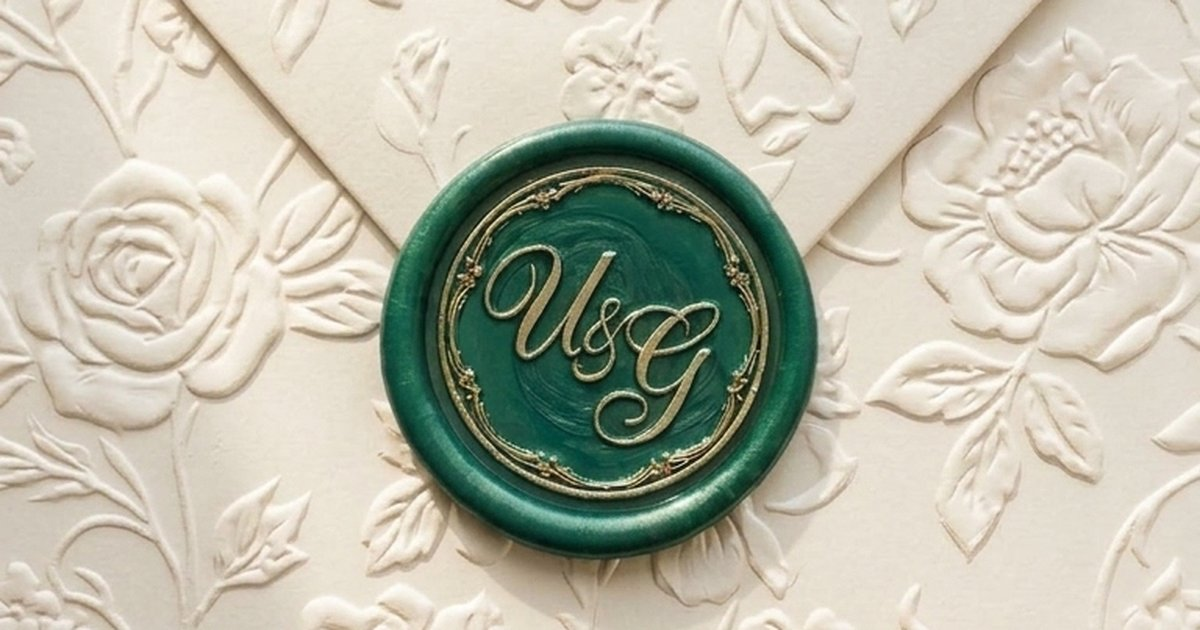
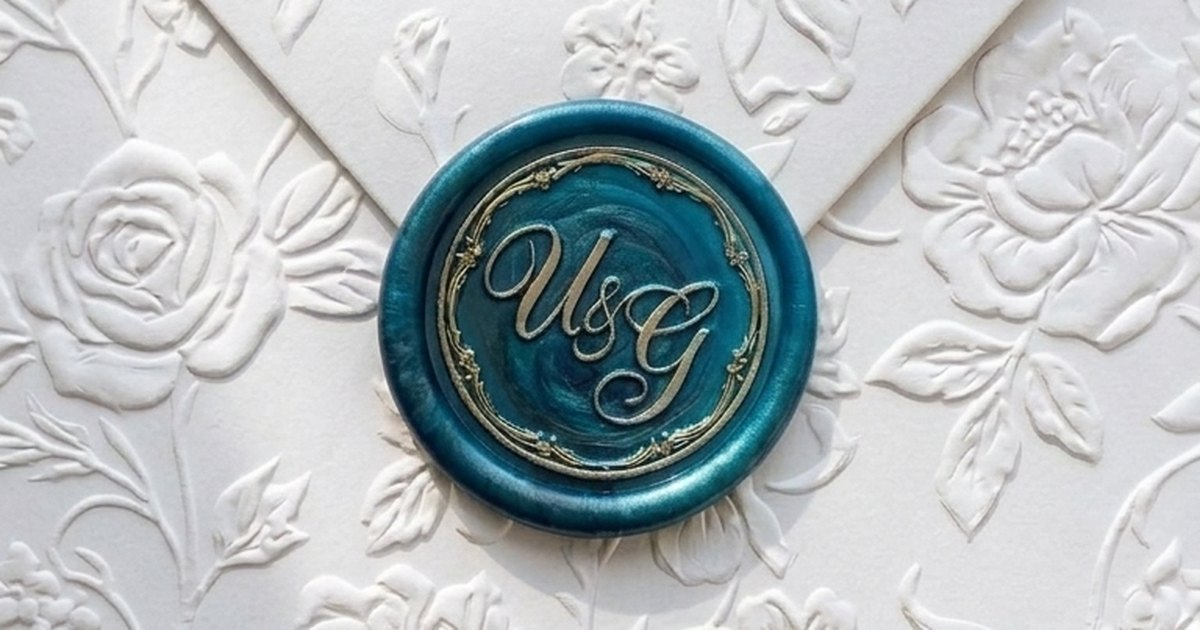
feat: lugar unico Finca Lindavista con mapa, itinerario actualizado, madrina del ramo, sobre y video con sello azul, og-image del sello

diff --git a/index.html b/index.html
@@ -10,14 +10,14 @@
 <meta property="og:url" content="https://boda-gabriela-y-ulises.vercel.app/">
 <meta property="og:title" content="Ulises &amp; Gabriela · XXVIII · XI · MMXXVI">
 <meta property="og:description" content="Nos casamos y queremos que estés ahí. Playa del Carmen, Quintana Roo — 28 de Noviembre de 2026">
-<meta property="og:image" content="https://boda-gabriela-y-ulises.vercel.app/og-image.jpg">
+<meta property="og:image" content="https://boda-gabriela-y-ulises.vercel.app/og-image.jpg?v=3">
 <meta property="og:image:type" content="image/jpeg">
 <meta property="og:image:width" content="1200">
 <meta property="og:image:height" content="630">
 <meta property="og:image:alt" content="Invitación de boda Ulises y Gabriela — Playa del Carmen 2026">
 <meta property="og:locale" content="es_MX">
 <meta name="twitter:card" content="summary_large_image">
-<meta name="twitter:image" content="https://boda-gabriela-y-ulises.vercel.app/og-image.jpg">
+<meta name="twitter:image" content="https://boda-gabriela-y-ulises.vercel.app/og-image.jpg?v=3">
 <script>if('scrollRestoration' in history){history.scrollRestoration='manual';}window.scrollTo(0,0);document.documentElement.className+=('IntersectionObserver' in window)?' js':'';</script>
 <link rel="preload" href="luxurious-script.woff2" as="font" type="font/woff2" crossorigin>
 <link rel="preload" href="portada.jpg" as="image">
@@ -483,8 +483,8 @@ footer{background:linear-gradient(180deg,rgba(253,251,246,0) 0,rgba(244,220,198,
 <body>
 
 <div id="envelope-screen">
-  <img id="envImage" src="sobre.jpg" alt="Sobre de invitación Ulises y Gabriela">
-  <video id="envVideo" src="https://bsjoelxktbvlavfoozhk.supabase.co/storage/v1/object/public/fotos-clientes/video/boda-gabriela-y-ulises/sobre-apertura-v2.mp4" muted playsinline preload="auto" poster="sobre.jpg"></video>
+  <img id="envImage" src="sobre.jpg?v=3" alt="Sobre de invitación Ulises y Gabriela">
+  <video id="envVideo" src="https://bsjoelxktbvlavfoozhk.supabase.co/storage/v1/object/public/fotos-clientes/video/boda-gabriela-y-ulises/sobre-apertura-v3.mp4" muted playsinline preload="auto" poster="sobre.jpg?v=3"></video>
   <div class="env-tap" id="envTap">Toca para abrir</div>
 </div>
 <div id="dust" aria-hidden="true"></div>
@@ -574,37 +574,28 @@ footer{background:linear-gradient(180deg,rgba(253,251,246,0) 0,rgba(244,220,198,
             <div class="pad-slide"><div class="pad-ic"><svg viewBox="0 0 64 64"><path d="M44 24c-6.6 0-10 8-12 8s-5.4-8-12-8a8 8 0 000 16c6.6 0 10-8 12-8s5.4 8 12 8a8 8 0 000-16Z"/></svg></div><span class="caps">Padrinos de lazo</span><p class="pad-names">Gómez Valencia</p></div>
             <div class="pad-slide"><div class="pad-ic"><svg viewBox="0 0 64 64"><circle cx="25" cy="29" r="12"/><circle cx="39" cy="38" r="12"/><line x1="25" y1="25" x2="25" y2="33"/><line x1="21" y1="29" x2="29" y2="29"/></svg></div><span class="caps">Padrinos de arras</span><p class="pad-names">Ruiz Sánchez</p></div>
             <div class="pad-slide"><div class="pad-ic"><svg viewBox="0 0 64 64"><rect x="20" y="15" width="25" height="32" rx="2"/><line x1="32.5" y1="22" x2="32.5" y2="35"/><line x1="27" y1="27" x2="38" y2="27"/><line x1="20" y1="41" x2="45" y2="41"/></svg></div><span class="caps">Madrina de la Biblia</span><p class="pad-names">Sarai Gómez Puc</p></div>
+            <div class="pad-slide"><div class="pad-ic"><svg viewBox="0 0 64 64"><circle cx="32" cy="17" r="6"/><circle cx="22" cy="23" r="5.5"/><circle cx="42" cy="23" r="5.5"/><circle cx="27" cy="29" r="5"/><circle cx="37" cy="29" r="5"/><path d="M26 34l6 22 6-22"/><path d="M27 44c3 2 7 2 10 0"/></svg></div><span class="caps">Madrina del ramo</span><p class="pad-names">Yanin Junco</p></div>
           </div>
         </div>
-        <div class="pad-dots" id="padDots"><button class="active" aria-label="Padrinos 1"></button><button aria-label="Padrinos 2"></button><button aria-label="Padrinos 3"></button><button aria-label="Padrinos 4"></button></div>
+        <div class="pad-dots" id="padDots"><button class="active" aria-label="Padrinos 1"></button><button aria-label="Padrinos 2"></button><button aria-label="Padrinos 3"></button><button aria-label="Padrinos 4"></button><button aria-label="Padrinos 5"></button></div>
       </div>
     </div>
   </section>
 
   <!-- LUGARES -->
   <section class="sec sec--paper" id="lugares">
-    <span class="pill rv">Dónde y cuándo</span>
+    <span class="pill rv">Dónde</span>
     <h2 class="title rv d1">La celebración</h2>
     <div class="arches">
       <div class="arch rv"><div class="core">
-        <div class="arch-ic"><svg viewBox="0 0 64 64"><path d="M32 6v10M27 11h10"/><path d="M14 58V30L32 18l18 12v28"/><path d="M26 58V44a6 6 0 0112 0v14"/><path d="M8 58h48"/><circle cx="32" cy="31" r="3.5"/></svg></div>
-        <span class="caps">Ceremonia religiosa</span>
-        <span class="arch-time">6:00 p.m.</span>
-        <!-- PENDIENTE: lugar y link de Maps de la ceremonia religiosa -->
-        <span class="arch-place">Lugar por confirmar</span>
-        <span class="arch-addr">Playa del Carmen, Quintana Roo</span>
-      </div></div>
-      <div class="arch rv d1"><div class="core">
-        <div class="arch-ic"><svg viewBox="0 0 64 64"><path d="M20 8h12l-1 16a5 5 0 01-10 0z"/><path d="M26 29v20M20 49h12"/><path d="M34 12h12l-1 16a5 5 0 01-10 0z"/><path d="M40 33v18M34 51h12"/><path d="M30 6l3-3M48 9l3-2"/></svg></div>
-        <span class="caps">Recepción</span>
-        <span class="arch-time">7:00 p.m.</span>
+        <div class="arch-ic"><svg viewBox="0 0 64 64"><path d="M32 58S14 39 14 26a18 18 0 0136 0c0 13-18 32-18 32z"/><circle cx="32" cy="26" r="6.5"/></svg></div>
         <span class="arch-place">Finca Lindavista</span>
         <span class="arch-addr">Playa del Carmen, Quintana Roo</span>
-        <a class="btn" href="https://maps.app.goo.gl/z6EHYtwRCvDKnZeJ7" target="_blank" rel="noopener">Cómo llegar<span class="ic"><svg viewBox="0 0 24 24"><path d="M7 17L17 7M9 7h8v8"/></svg></span></a>
+        <a class="btn" href="https://maps.app.goo.gl/z6EHYtwRCvDKnZeJ7" target="_blank" rel="noopener">Ver mapa<span class="ic"><svg viewBox="0 0 24 24"><path d="M7 17L17 7M9 7h8v8"/></svg></span></a>
       </div></div>
     </div>
     <div class="cal rv">
-      <a class="btn btn--ghost" href="https://calendar.google.com/calendar/render?action=TEMPLATE&text=Boda+Ulises+%26+Gabriela&dates=20261128T230000Z/20261129T060000Z&details=Ceremonia+Religiosa+6%3A00+PM+%7C+Recepci%C3%B3n+7%3A00+PM+Finca+Lindavista&location=Finca+Lindavista%2C+Playa+del+Carmen%2C+Quintana+Roo" target="_blank" rel="noopener">Guardar la fecha<span class="ic"><svg viewBox="0 0 24 24"><rect x="4" y="5" width="16" height="15" rx="2"/><path d="M4 10h16M9 3v4M15 3v4"/></svg></span></a>
+      <a class="btn btn--ghost" href="https://calendar.google.com/calendar/render?action=TEMPLATE&text=Boda+Ulises+%26+Gabriela&dates=20261128T230000Z/20261129T060000Z&details=Finca+Lindavista%2C+Playa+del+Carmen&location=Finca+Lindavista%2C+Playa+del+Carmen%2C+Quintana+Roo" target="_blank" rel="noopener">Guardar la fecha<span class="ic"><svg viewBox="0 0 24 24"><rect x="4" y="5" width="16" height="15" rx="2"/><path d="M4 10h16M9 3v4M15 3v4"/></svg></span></a>
     </div>
   </section>
 
@@ -624,12 +615,11 @@ footer{background:linear-gradient(180deg,rgba(253,251,246,0) 0,rgba(244,220,198,
       </svg>
       <div class="tl-pearl" id="tlPearl" aria-hidden="true"></div>
       <div class="tl-row" data-side="left"><div class="tl-orn"></div><div class="tl-dot"></div><div class="tl-in"><p class="tl-t">6:00 p.m.</p><p class="tl-ev">Ceremonia religiosa</p></div></div>
-      <div class="tl-row" data-side="right"><div class="tl-orn"></div><div class="tl-dot"></div><div class="tl-in"><p class="tl-t">7:00 p.m.</p><p class="tl-ev">Brindis</p></div></div>
+      <div class="tl-row" data-side="right"><div class="tl-orn"></div><div class="tl-dot"></div><div class="tl-in"><p class="tl-t">7:00 p.m.</p><p class="tl-ev">Cocktail</p></div></div>
       <div class="tl-row" data-side="left"><div class="tl-orn"></div><div class="tl-dot"></div><div class="tl-in"><p class="tl-t">8:00 p.m.</p><p class="tl-ev">Vals de novios</p></div></div>
       <div class="tl-row" data-side="right"><div class="tl-orn"></div><div class="tl-dot"></div><div class="tl-in"><p class="tl-t">9:00 p.m.</p><p class="tl-ev">Cena</p></div></div>
       <div class="tl-row" data-side="left"><div class="tl-orn"></div><div class="tl-dot"></div><div class="tl-in"><p class="tl-t">10:00 p.m.</p><p class="tl-ev">Corte de pastel</p></div></div>
-      <div class="tl-row" data-side="right"><div class="tl-orn"></div><div class="tl-dot"></div><div class="tl-in"><p class="tl-t">11:00 p.m.</p><p class="tl-ev">Protocolo de boda</p></div></div>
-      <div class="tl-row" data-side="left"><div class="tl-orn"></div><div class="tl-dot"></div><div class="tl-in"><p class="tl-t">12:00 a.m.</p><p class="tl-ev">¡Fiesta y baile!</p></div></div>
+      <div class="tl-row" data-side="right"><div class="tl-orn"></div><div class="tl-dot"></div><div class="tl-in"><p class="tl-t">11:00 p.m.</p><p class="tl-ev">¡Fiesta y baile!</p></div></div>
     </div>
   </section>
 
